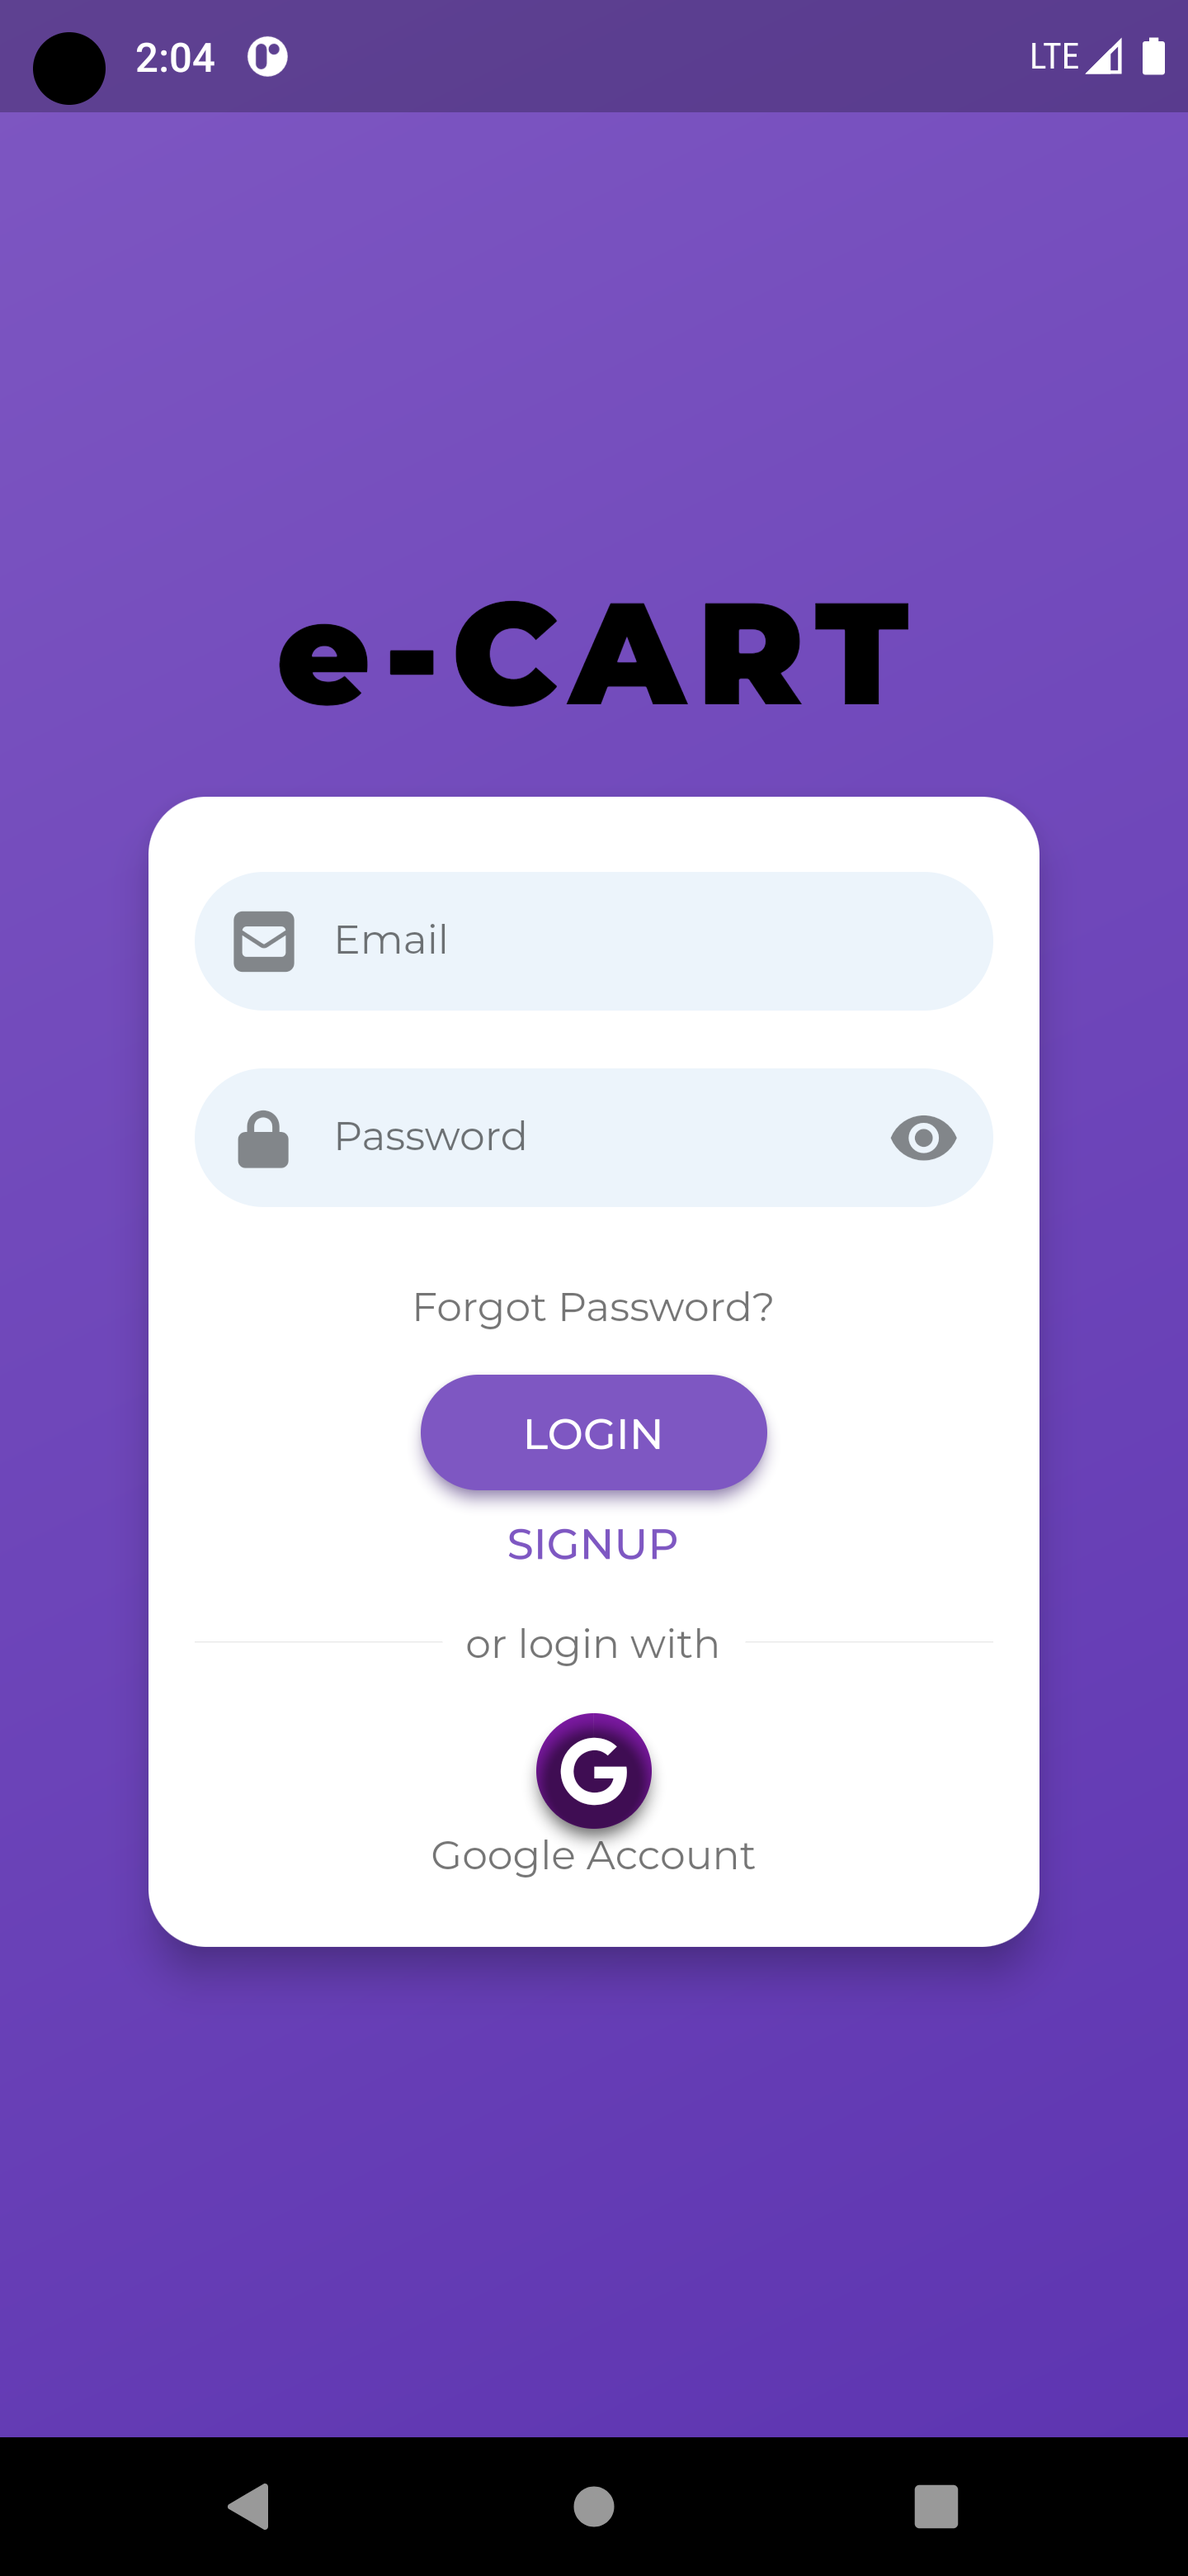
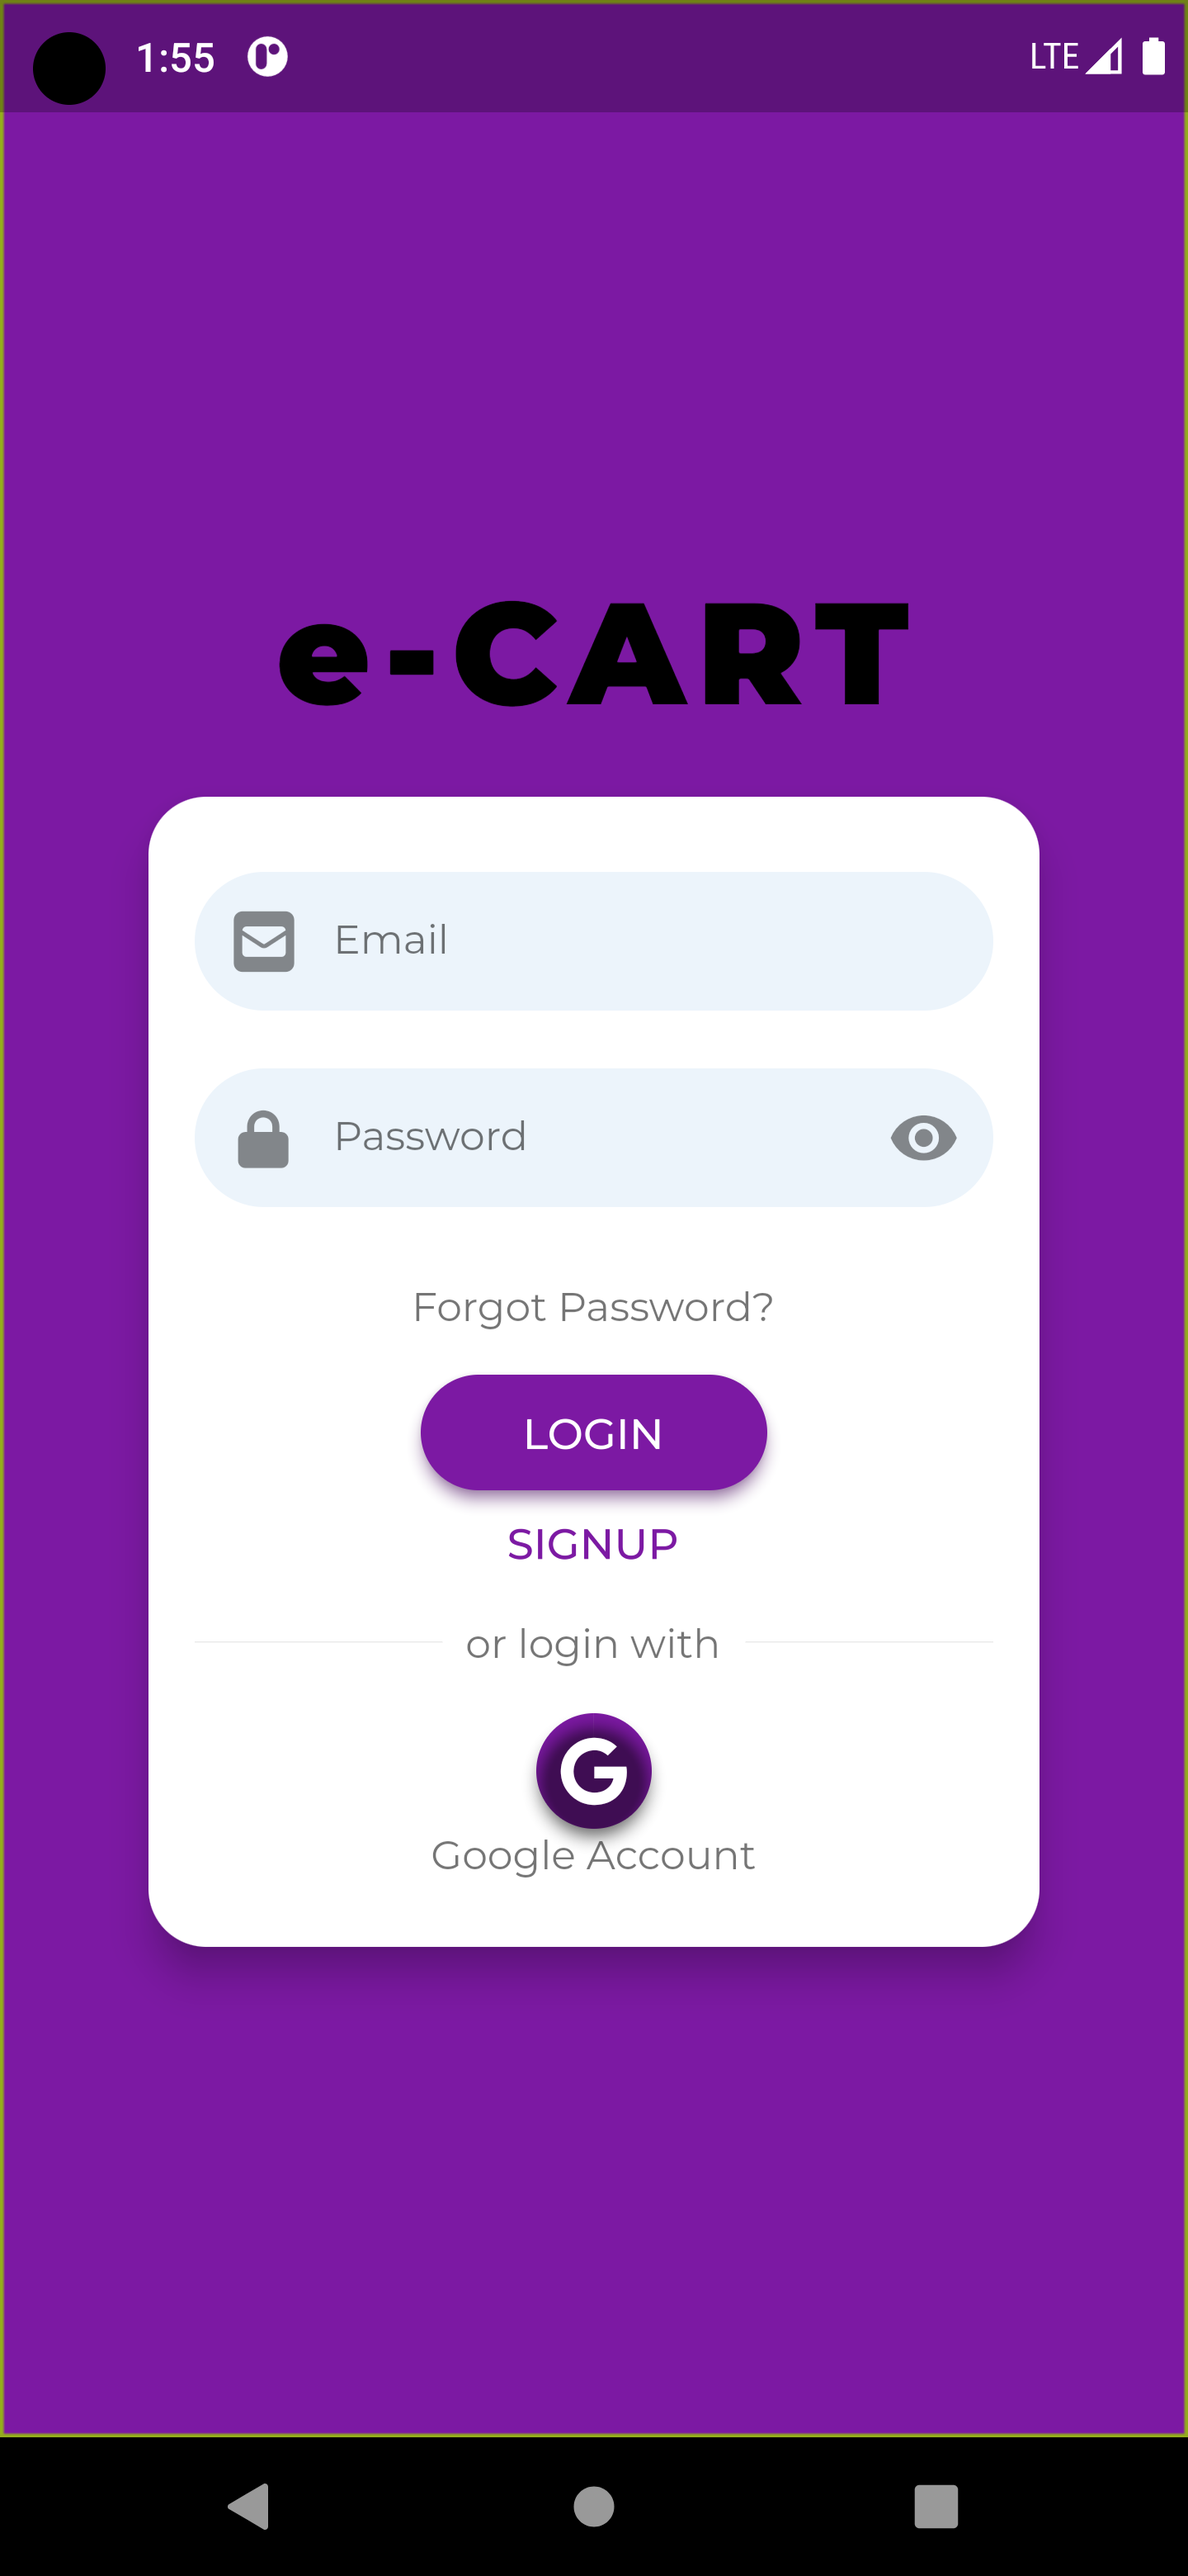
Readme updated

diff --git a/lib/screens/login_screen.dart b/lib/screens/login_screen.dart
@@ -37,7 +37,14 @@ class LoginScreen extends StatelessWidget {
     // await auth0.webAuthentication().login();
 
     try {
-      final GoogleSignIn googleSignIn = GoogleSignIn();
+      final GoogleSignIn googleSignIn = GoogleSignIn(
+        clientId:
+            '911595939692-ou0ftm92dchhbq0fja12kvt0tmmru0te.apps.googleusercontent.com',
+        scopes: [
+          'email',
+          'https://www.googleapis.com/auth/contacts.readonly',
+        ],
+      );
 
       final GoogleSignInAccount? googleSignInAccount =
           await googleSignIn.signIn();
@@ -50,9 +57,9 @@ class LoginScreen extends StatelessWidget {
           accessToken: googleSignInAuthentication.accessToken,
           idToken: googleSignInAuthentication.idToken,
         );
-        // print('Auth Creds: $authCredentials');
-        // UserCredential result =
-        await FirebaseAuth.instance.signInWithCredential(authCredentials);
+        print('Auth Creds: $authCredentials');
+        UserCredential result =
+            await FirebaseAuth.instance.signInWithCredential(authCredentials);
         // User? user = result.user;
         // print('user: $authCredentials');
         return null;
@@ -90,7 +97,7 @@ class LoginScreen extends StatelessWidget {
         },
         onRecoverPassword: _recoverPassword,
         theme: LoginTheme(
-          primaryColor: Colors.deepPurple,
+          primaryColor: const Color.fromARGB(255, 124, 25, 163),
           accentColor: Colors.black,
           errorColor: Colors.orange,
           titleStyle: const TextStyle(
@@ -109,7 +116,7 @@ class LoginScreen extends StatelessWidget {
             callback: () async {
               final result = await _loginGoogle();
               if (result != null) {
-                // print(result);
+                print(result);
                 Navigator.of(context, rootNavigator: true)
                     .pushNamed(LoginScreen.routeName);
               }

diff --git a/README.md b/README.md
@@ -1,16 +1,52 @@
-# e_com
+# e-CART: A Flutter e-commerce App (Android, iOS) using BLOC pattern
 
-A new Flutter project.
+A work-in-progress mobile app that features:
 
-## Getting Started
+- Bloc(Cubit) pattern to separate business logic from UI, 
+- Firebese Authentication
+- Firebase Firestore as back-end
+- Stripe for payments
+- Clean Architecture
 
-This project is a starting point for a Flutter application.
 
-A few resources to get you started if this is your first Flutter project:
+# Login Flow
 
-- [Lab: Write your first Flutter app](https://docs.flutter.dev/get-started/codelab)
-- [Cookbook: Useful Flutter samples](https://docs.flutter.dev/cookbook)
+![](screenshots/login_flow.png)
 
-For help getting started with Flutter development, view the
-[online documentation](https://docs.flutter.dev/), which offers tutorials,
-samples, guidance on mobile development, and a full API reference.
+
+# Bloc Pattern
+
+![](screenshots/bloc_pattern.png)
+
+# App Screenshots
+
+<p float="left">
+  <img src="screenshots/splash.png" width="300" />
+  <img src="screenshots/login.png" width="300" /> 
+  <img src="screenshots/home1.png" width="300" />
+</p>
+<p float="left">
+  <img src="screenshots/home2.png" width="300" />
+  <img src="screenshots/best_selling.png" width="300" /> 
+  <img src="screenshots/new_arrival.png" width="300" />
+</p>
+<p float="left">
+<img src="screenshots/categories.png" width="300" /> 
+  <img src="screenshots/all_products.png" width="300" />  
+  <img src="screenshots/drawer.png" width="300" />
+  
+</p>
+
+<p float="left">
+<img src="screenshots/product_details_page.png" width="300" /> 
+  <img src="screenshots/wishlist.png" width="300" />
+  <img src="screenshots/search_products.png" width="300" />
+</p>
+<p float="left">
+<img src="screenshots/cart.png" width="300" /> 
+</p>
+
+
+
+
+
